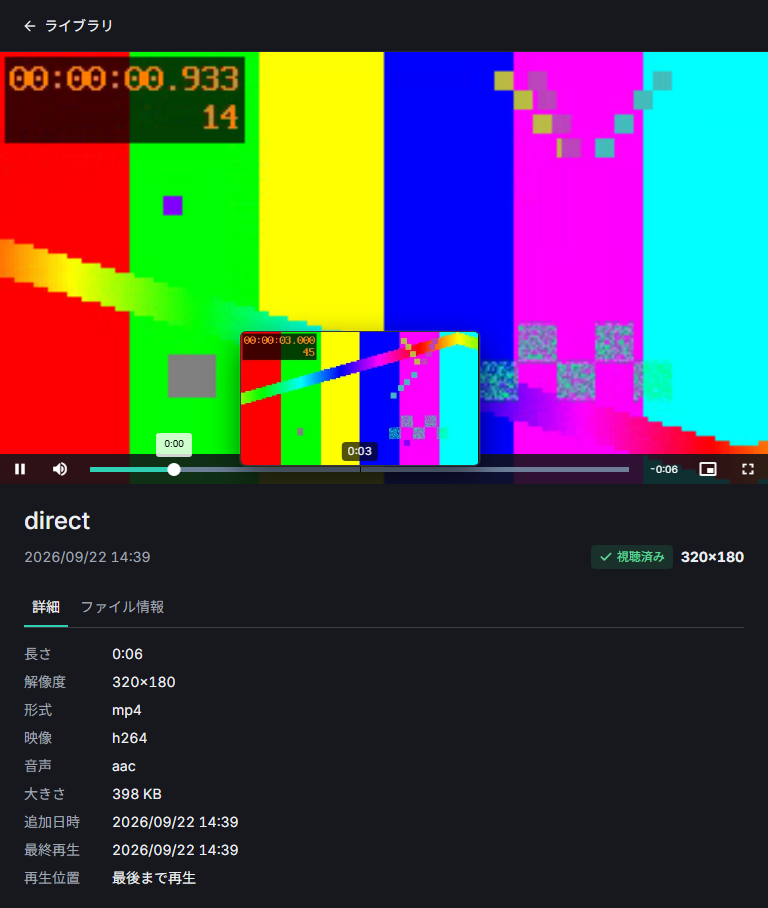
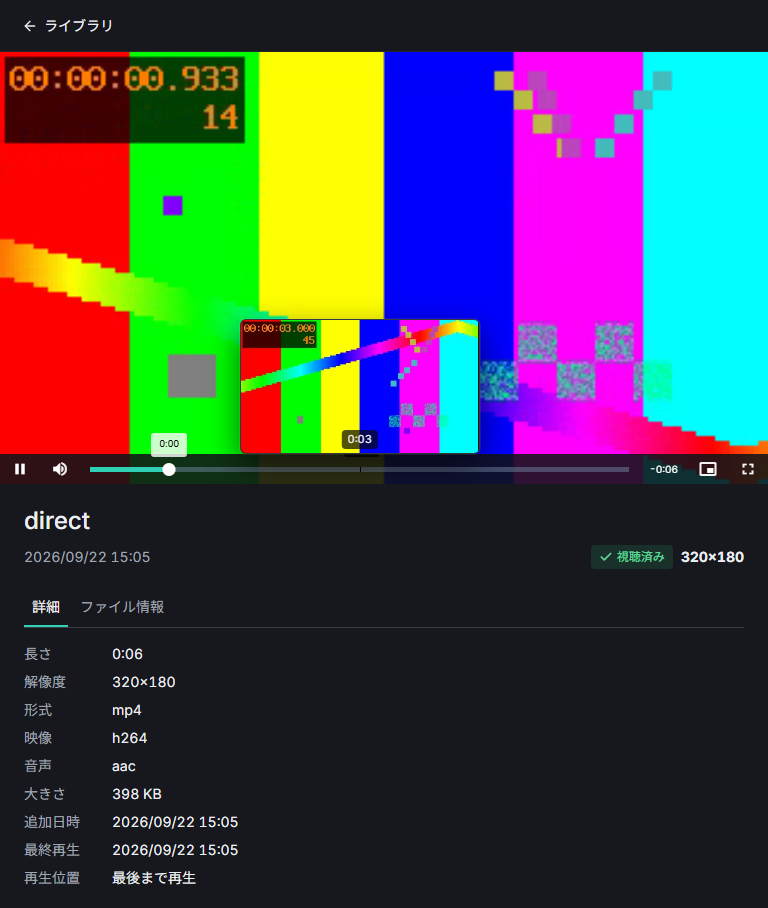
fix: align preview with seek holder

Changed region(s): [[0.1875, 0.3392, 0.8125, 0.5242], [0.25, 0.8943, 0.3125, 0.9559], [0.1562, 0.5859, 0.1875, 0.6167]]

diff --git a/web/src/index.css b/web/src/index.css
@@ -20,18 +20,17 @@
   background: var(--color-accent);
 }
 
-.vv-video-player .vjs-progress-control {
+.vv-video-player .vjs-progress-holder {
   overflow: visible;
 }
 
 .vv-seek-preview {
-  --vv-seek-preview-width: clamp(160px, calc(89.41px + 19.61vw), 240px);
   position: absolute;
-  bottom: 18px;
+  bottom: var(--spacing-seek-preview-gap);
   z-index: 2;
   display: none;
-  width: min(calc(100% - 8px), var(--vv-seek-preview-width));
-  max-width: 240px;
+  width: min(calc(100% - var(--spacing-seek-preview-edge) * 2), var(--size-seek-preview));
+  max-width: var(--size-seek-preview-max);
   color: var(--color-fg);
   pointer-events: none;
   transform: translateX(-50%);
@@ -39,7 +38,7 @@
 
 .vv-seek-preview:not([data-state="hidden"]) {
   display: block;
-  animation: vv-seek-preview-in 100ms ease-out;
+  animation: vv-seek-preview-in var(--duration-seek-preview) ease-out;
 }
 
 .vv-seek-preview-frame {
@@ -66,11 +65,11 @@
 
 .vv-seek-preview-time {
   position: absolute;
-  bottom: 4px;
+  bottom: var(--spacing-seek-preview-edge);
   left: 50%;
-  padding: 2px 6px;
+  padding: var(--spacing-seek-preview-time-y) var(--spacing-seek-preview-time-x);
   color: var(--color-fg);
-  font-size: 11px;
+  font-size: var(--text-seek-preview);
   font-variant-numeric: tabular-nums;
   line-height: 1.35;
   white-space: nowrap;
@@ -80,7 +79,7 @@
 }
 
 .vv-seek-preview[data-state="unavailable"] {
-  bottom: 40px;
+  bottom: var(--spacing-seek-preview-unavailable-gap);
   width: max-content;
 }
 
@@ -184,6 +183,14 @@
   --spacing-card-1: 280px;
   --spacing-card-2: 360px;
   --spacing-card-3: 480px;
+  --size-seek-preview: clamp(160px, calc(89.41px + 19.61vw), 240px);
+  --size-seek-preview-max: 240px;
+  --spacing-seek-preview-gap: 18px;
+  --spacing-seek-preview-unavailable-gap: 40px;
+  --spacing-seek-preview-edge: 4px;
+  --spacing-seek-preview-time-y: 2px;
+  --spacing-seek-preview-time-x: 6px;
+  --text-seek-preview: 11px;
 
   /* --- モーション --- */
   --ease-out-quart: cubic-bezier(0.25, 1, 0.5, 1);
@@ -191,6 +198,7 @@
   --animate-pop-in: pop-in 120ms var(--ease-out-quart);
   --animate-slide-up: slide-up 200ms var(--ease-out-quart);
   --animate-shimmer: shimmer 1.6s linear infinite;
+  --duration-seek-preview: 100ms;
 
   @keyframes fade-in {
     from {

diff --git a/web/src/player/seekPreview.test.ts b/web/src/player/seekPreview.test.ts
@@ -54,7 +54,7 @@ describe("seek preview target", () => {
     });
     expect(seekPreviewTarget(303, rect, 120_000, 240).requestPositionMs).toBe(61_000);
     expect(seekPreviewTarget(500, rect, 120_000, 240)).toEqual({
-      positionMs: 120_000,
+      positionMs: 119_999,
       requestPositionMs: 119_999,
       leftPx: 280,
     });
@@ -144,7 +144,7 @@ describe("seek preview controller", () => {
     progress.dispatchEvent(pointer("pointerdown", 250, 7, "touch"));
     progress.dispatchEvent(pointer("pointermove", 900, 7, "touch"));
     expect(progress.setPointerCapture).toHaveBeenCalledWith(7);
-    expect(preview.textContent).toBe("0:10");
+    expect(preview.textContent).toBe("0:09");
     await vi.advanceTimersByTimeAsync(150);
     await Promise.resolve();
     await Promise.resolve();

diff --git a/web/e2e/playback.e2e.ts b/web/e2e/playback.e2e.ts
@@ -421,7 +421,7 @@ test.describe.serial("live MP4 playback", () => {
         const element = document.querySelector("video");
         return element !== null && !element.paused && element.currentTime > 0.1;
       });
-      const seekBar = page.locator(".vjs-progress-control");
+      const seekBar = page.locator(".vjs-progress-holder");
       const seekBounds = await seekBar.boundingBox();
       const playerBounds = await page.locator(".video-js").boundingBox();
       if (seekBounds === null || playerBounds === null) {

diff --git a/web/src/player/seekPreview.ts b/web/src/player/seekPreview.ts
@@ -24,8 +24,8 @@ export function seekPreviewTarget(
 ): PreviewTarget {
   const localX = Math.min(Math.max(clientX - rect.left, 0), rect.width);
   const ratio = rect.width > 0 ? localX / rect.width : 0;
-  const positionMs = Math.round(ratio * durationMs);
   const lastPositionMs = Math.max(0, Math.ceil(durationMs) - 1);
+  const positionMs = Math.min(lastPositionMs, Math.round(ratio * durationMs));
   const requestPositionMs = Math.min(
     lastPositionMs,
     Math.round(positionMs / bucketMs) * bucketMs,

diff --git a/web/src/player/VideoPlayer.tsx b/web/src/player/VideoPlayer.tsx
@@ -67,7 +67,7 @@ export default function VideoPlayer({
       ) {
         return;
       }
-      const progress = host.querySelector<HTMLElement>(".vjs-progress-control");
+      const progress = host.querySelector<HTMLElement>(".vjs-progress-holder");
       if (progress !== null) {
         detachSeekPreview = attachSeekPreview(progress, {
           durationMs: video.durationMs,
